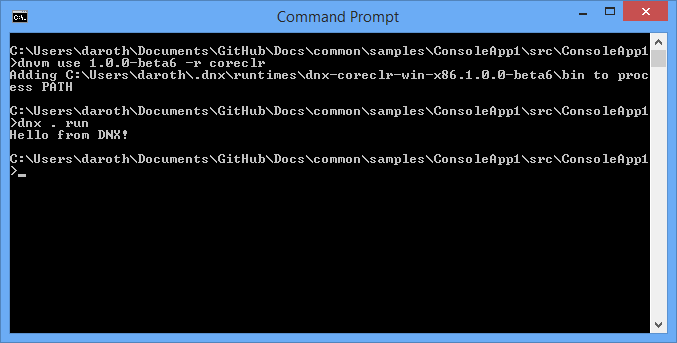
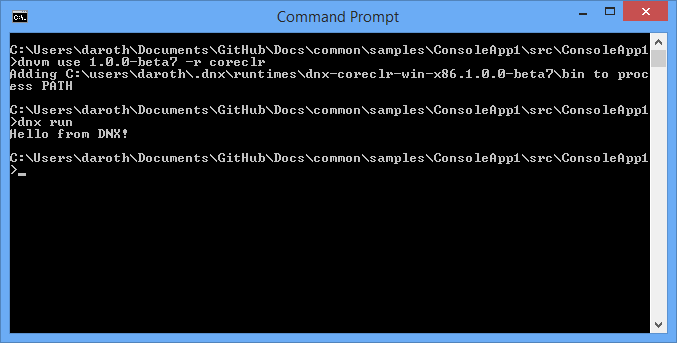
DNX command line changes
Tweaked wording on DNX command line

Updated screenshot

diff --git a/aspnet/fundamentals/servers.rst b/aspnet/fundamentals/servers.rst
@@ -27,7 +27,7 @@ ASP.NET 5 ships with support for 3 different servers:
 - Microsoft.AspNet.Server.WebListener (WebListener)
 - Microsoft.AspNet.Server.Kestrel (Kestrel)
 
-ASP.NET 5 does not directly listen for requests, but instead relies on the HTTP server implementation to surface the request to the application as a set of :doc:`feature interfaces <request-features>` composed into an HttpContext. Both IIS and WebListener are Windows-only; Kestrel is designed to run cross-platform. You can configure your application to be hosted by any or all of these servers by specifying commands in your ``project.json`` file. You can even specify an application entry point for your application, and run it as an executable (using ``dnx . run``) rather than hosting it in a separate process.
+ASP.NET 5 does not directly listen for requests, but instead relies on the HTTP server implementation to surface the request to the application as a set of :doc:`feature interfaces <request-features>` composed into an HttpContext. Both IIS and WebListener are Windows-only; Kestrel is designed to run cross-platform. You can configure your application to be hosted by any or all of these servers by specifying commands in your ``project.json`` file. You can even specify an application entry point for your application, and run it as an executable (using ``dnx run``) rather than hosting it in a separate process.
 
 The default web host for ASP.NET applications developed using Visual Studio 2015 is IIS / IIS Express. The "Microsoft.AspNet.Server.IIS" dependency is included in ``project.json`` by default, even with the Empty web site template. Visual Studio provides support for multiple profiles, associated with IIS Express and any other ``commands`` defined in ``project.json``. You can manage these profiles and their settings in the Debug tab of your web application project's Properties menu.
 

diff --git a/aspnet/dnx/console.rst b/aspnet/dnx/console.rst
@@ -45,11 +45,11 @@ Save your changes.
 Running the App
 ---------------
 
-At this point, we're ready to run the app. You can do this by simply entering ``dnx . run`` from the command prompt. You should see a result like this one:
+At this point, we're ready to run the app. You can do this by simply entering ``dnx run`` from the command prompt. You should see a result like this one:
 
 .. image:: console/_static/dnx-run.png
 
-.. note:: The ``dnx`` command is used to execute a managed entry point (a ``Program.Main`` function) in an assembly. The ``dnx . run`` command is a shorthand for executing the entry point in the current project. It is equivalent to ``dnx . [project_name]``
+.. note:: The ``dnx`` command is used to execute a managed entry point (a ``Program.Main`` function) in an assembly. By default, the ``dnx run`` command looks in the current directory for the project to run. To specify a different directory, use the --project switch.
 
 You can select which CLR to run on using the .NET Version Manager (DNVM). To run on CoreCLR first run ``dnvm use [version] -r CoreCLR``. To return to using the .NET Framework CLR run ``dnvm use [version] -r CLR``.
 
